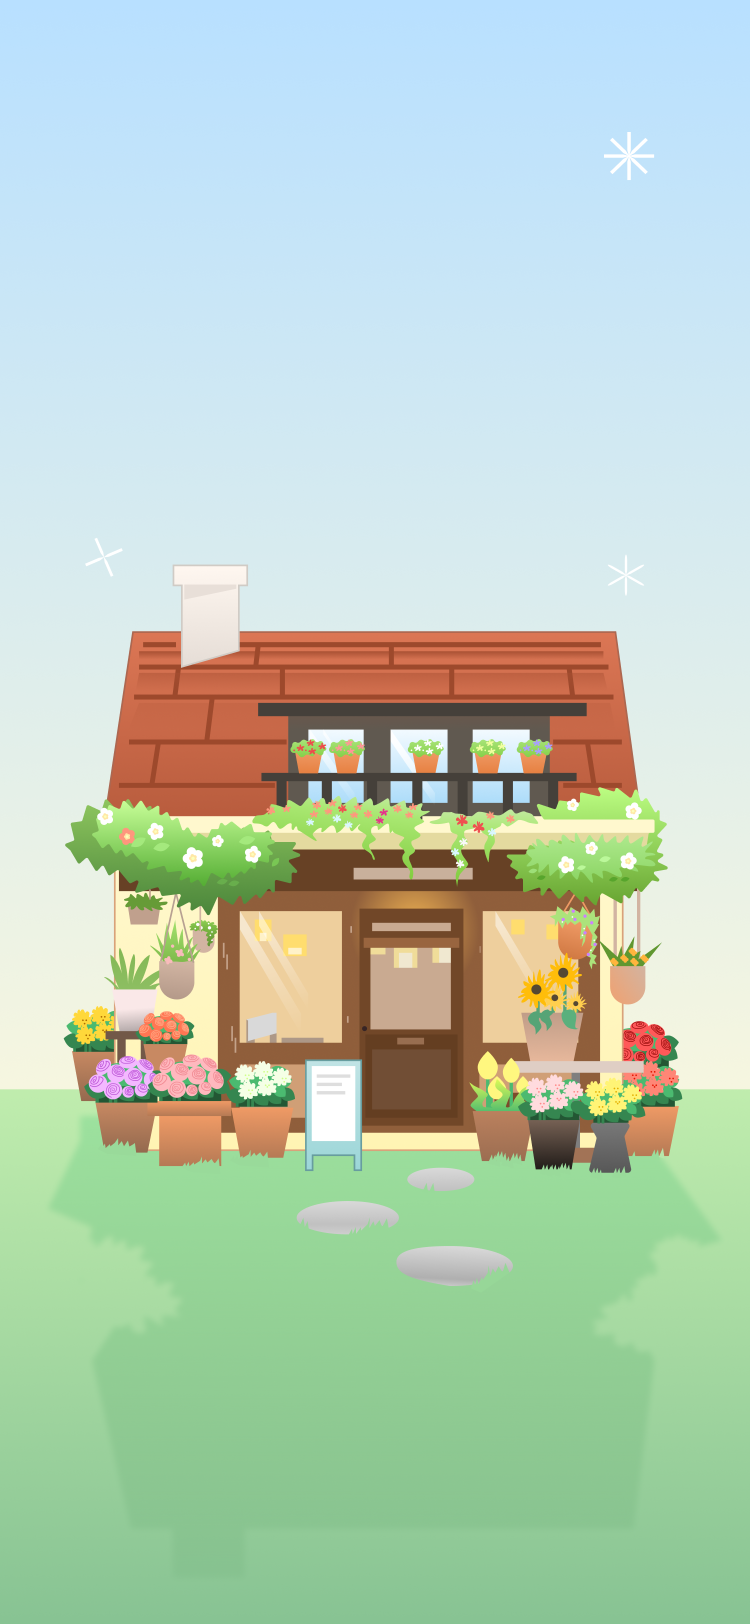
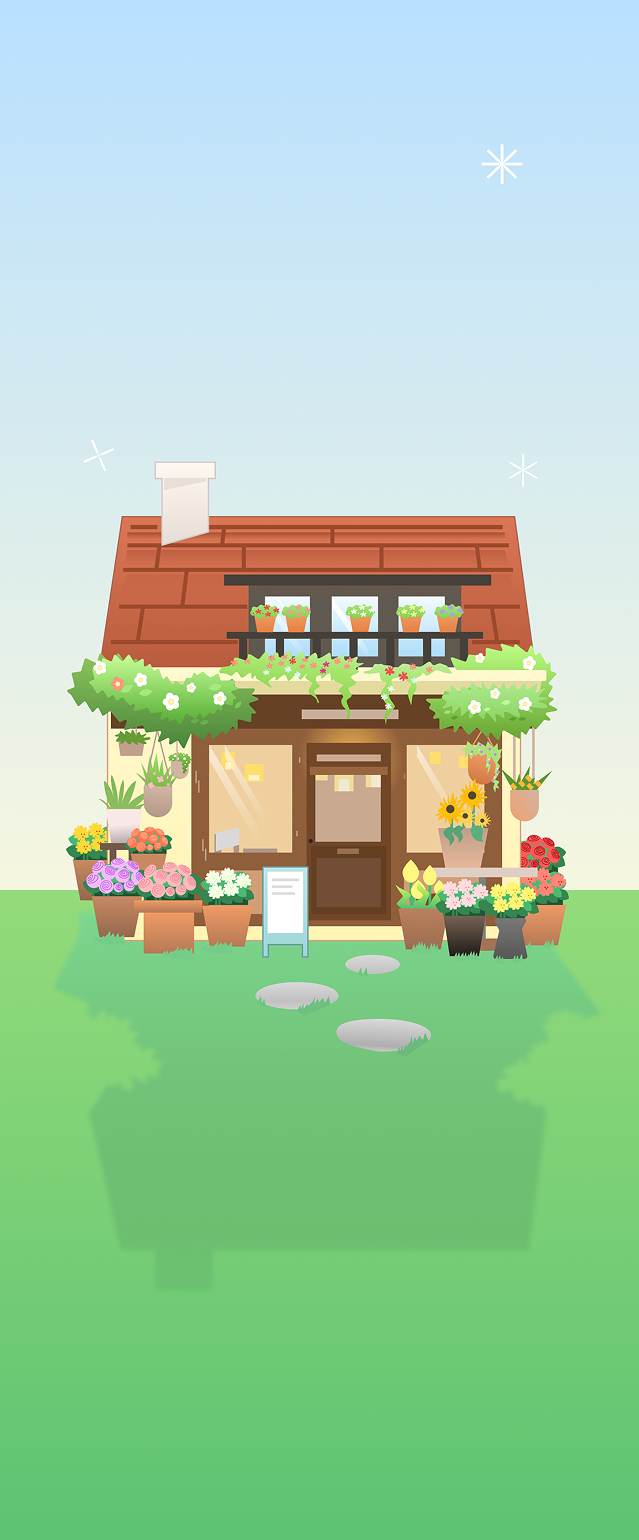
style: 홈 랜딩 길이 조절

diff --git a/src/app/page.tsx b/src/app/page.tsx
@@ -17,10 +17,10 @@ export default function Home() {
           fill
           priority
           sizes="430px"
-          className="h-[932px] w-full object-cover object-[center_-46px]"
+          className="h-[932px] w-full object-cover"
         />
 
-        <div className="absolute left-0 top-[60px] flex w-full flex-col items-center gap-6 px-5 text-center">
+        <div className="absolute left-0 top-[70px] flex w-full flex-col items-center gap-6 px-5 text-center">
           <p
             className="font-['KIMM'] text-[18px] font-light tracking-[-1px] text-[var(--color-red-400)]"
             style={{ lineHeight: "100%" }}

diff --git a/src/components/(pages)/home/HomeActionSection.tsx b/src/components/(pages)/home/HomeActionSection.tsx
@@ -58,7 +58,7 @@ export default function HomeActionSection({
   };
 
   return (
-    <div className="absolute left-0 top-[630px] flex w-full flex-col gap-2 px-5 pb-5">
+    <div className="absolute left-0 top-[590px] flex w-full flex-col gap-2 px-5 pb-5">
       <p className="flex justify-center gap-[2px] text-center">
         <span className="typo-body-2-1 text-[var(--color-brown-200)]">
           지금까지

diff --git a/src/components/Footer.tsx b/src/components/Footer.tsx
@@ -13,7 +13,7 @@ export default function Footer({ className }: FooterProps) {
   return (
     <footer
       className={cn(
-        "absolute left-0 top-[730px] z-10 flex w-full flex-col gap-6 border-t border-[#e1e1e1] px-6 pb-12 pt-3",
+        "absolute left-0 top-[700px] z-10 flex w-full flex-col gap-6 border-t border-[#e1e1e1] px-6 pb-12 pt-3",
         className,
       )}
     >
